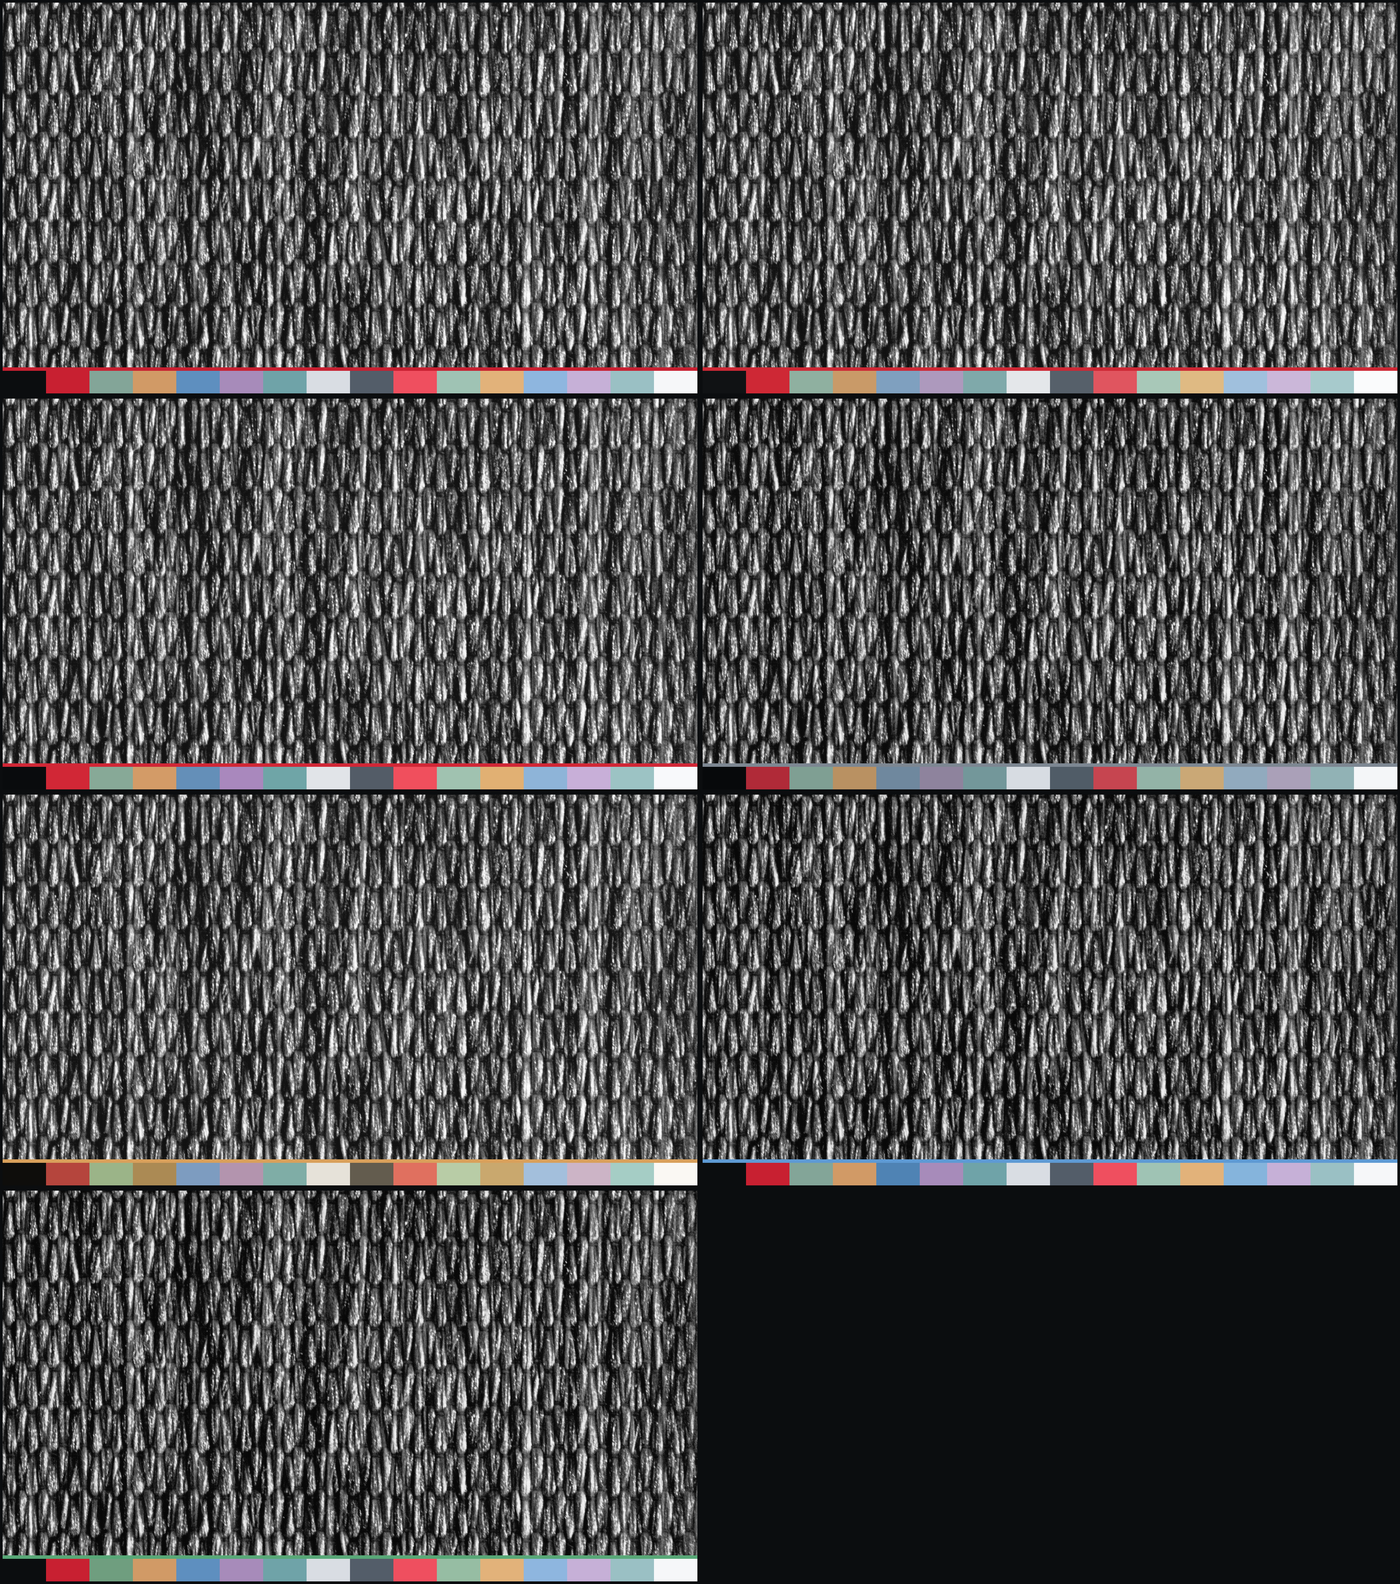
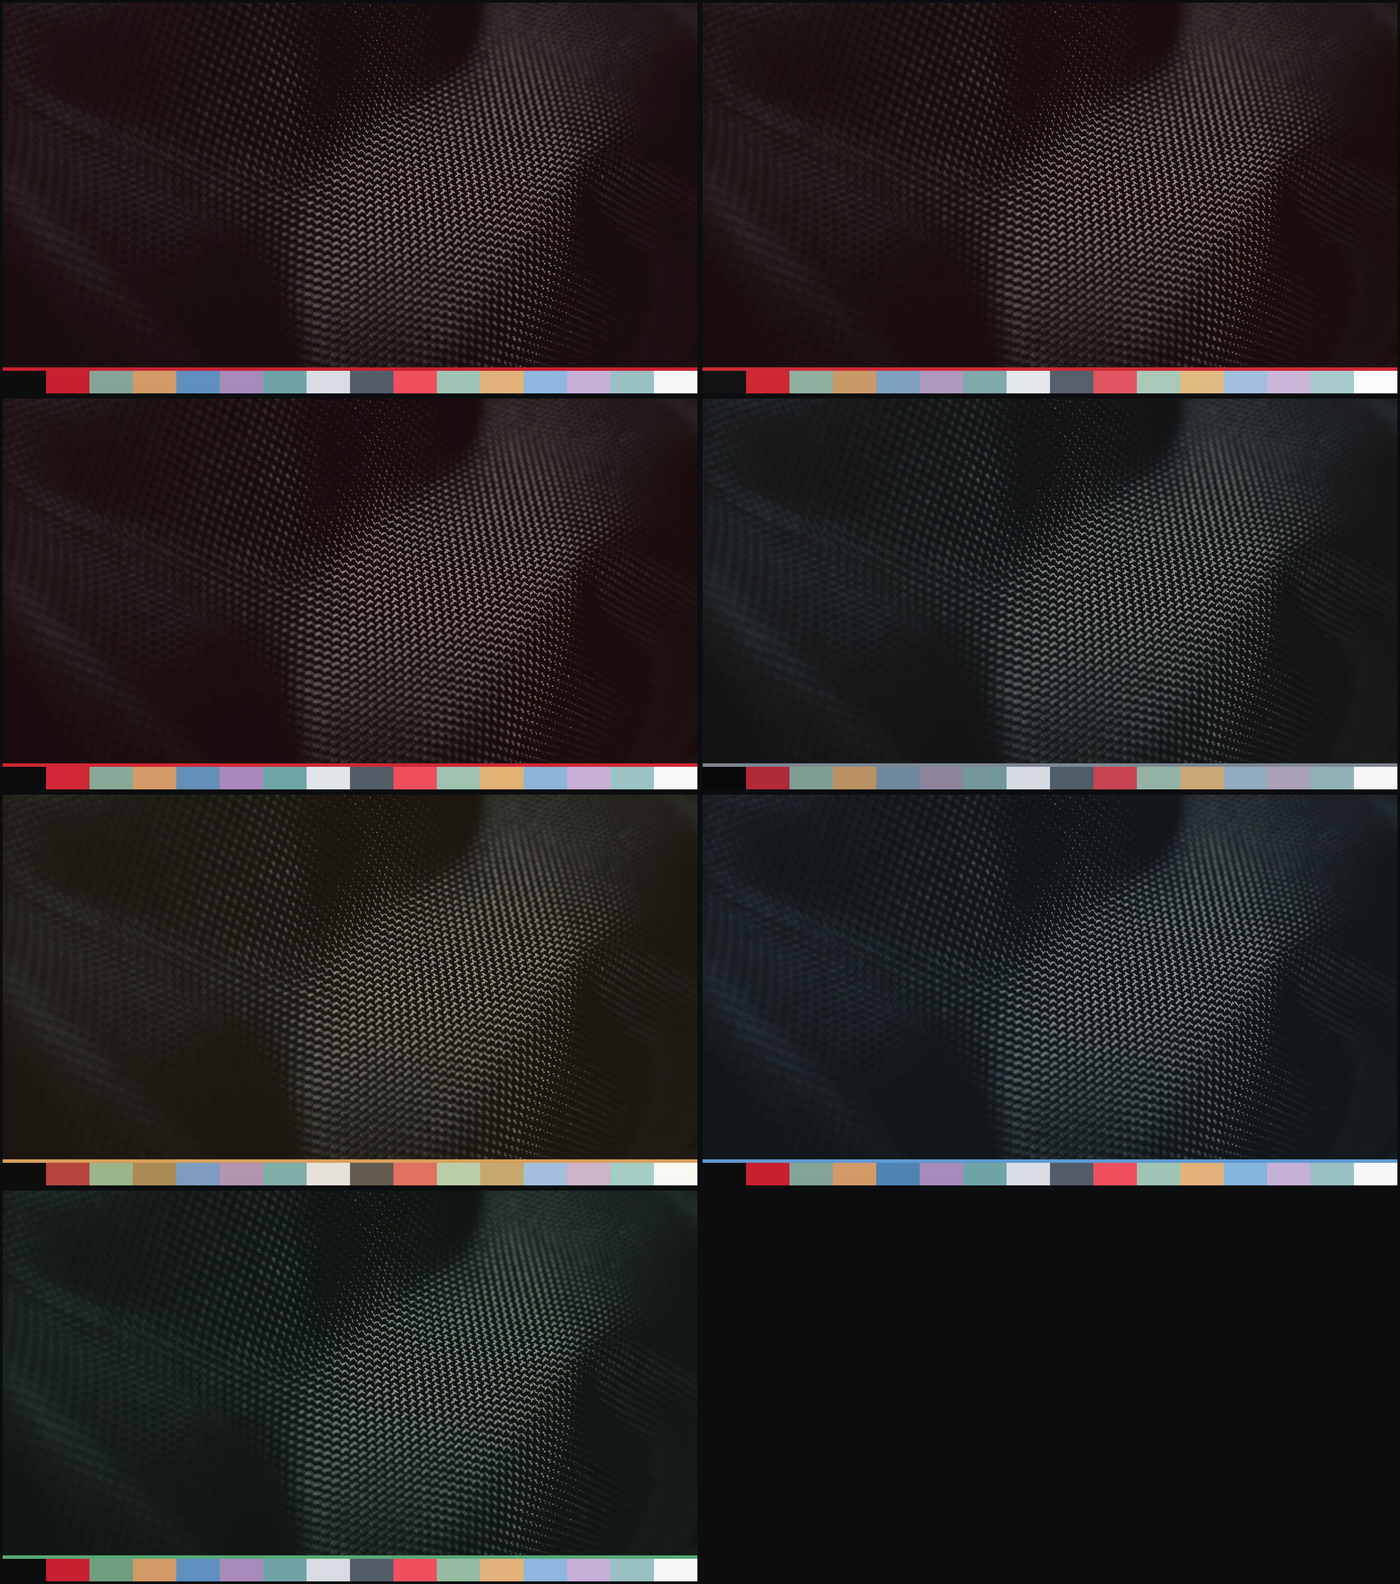
Woven set: hessian, canvas, fiber join sackcloth and weave

diff --git a/README.md b/README.md
@@ -86,10 +86,10 @@ path.
 Every variant ships the same curated five-piece set, tinted 8% with the
 variant accent so the identity carries without shouting:
 
-1. `1-grain.jpg` — dark pebbled grain, rounded relief.
-2. `2-burlap.jpg` — ultra-coarse burlap, fiber-scale depth.
+1. `1-hessian.jpg` — open coarse hessian grid, deep gaps.
+2. `2-canvas.jpg` — tight uniform canvas weave.
 3. `3-sackcloth.jpg` — heavy sackcloth, raking side light.
-4. `4-twill.jpg` — diagonal twill, sharp ridge highlights.
+4. `4-fiber.jpg` — dense matted fiber, non-woven felt.
 5. `5-weave.jpg` — tight woven fabric, the technical texture.
 
 When `assets/backgrounds/` is empty, `build.sh` falls back to a fully
